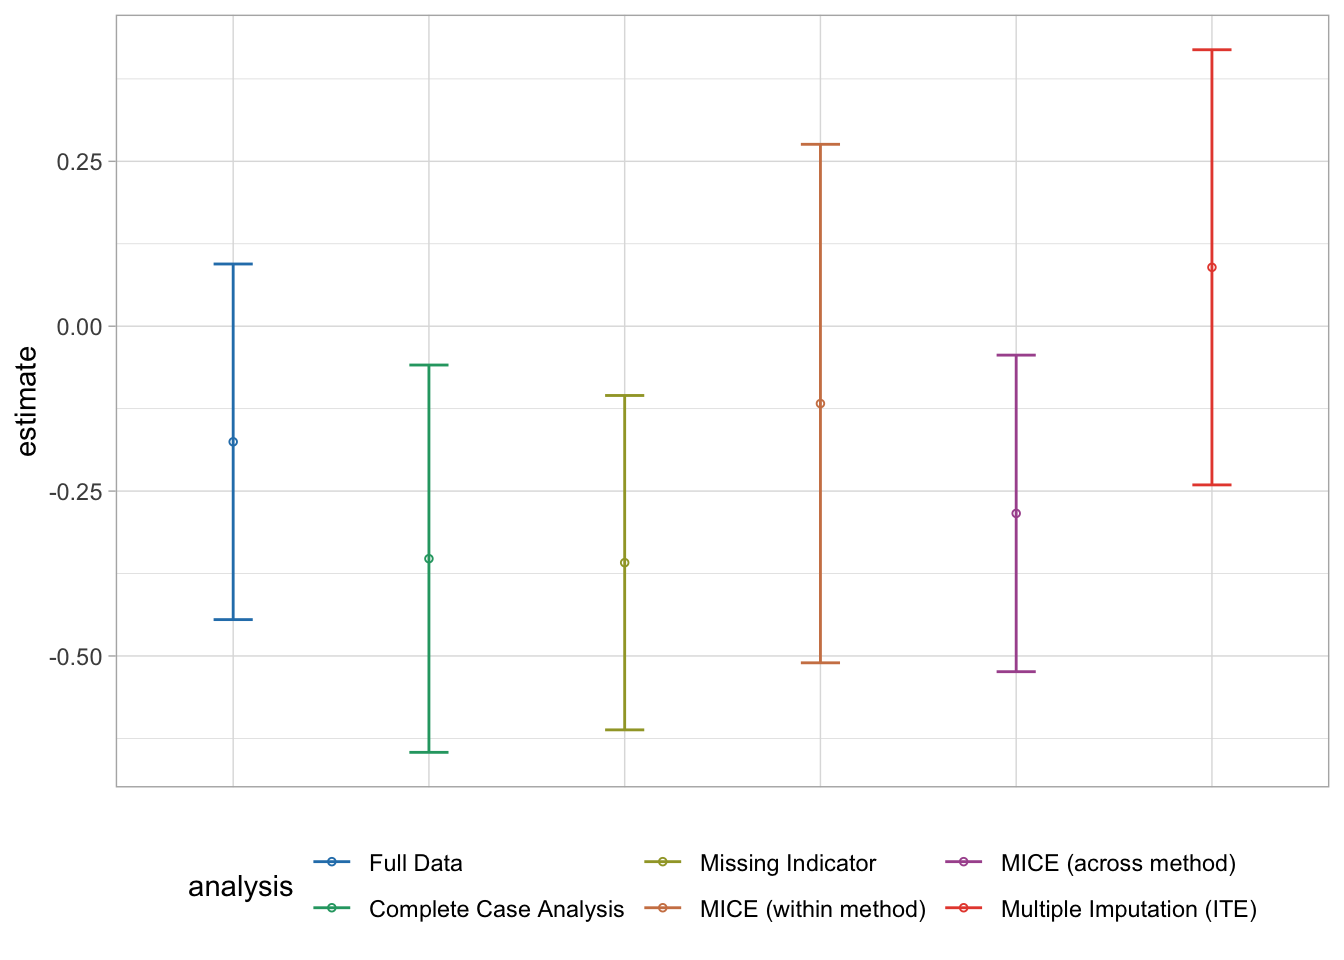
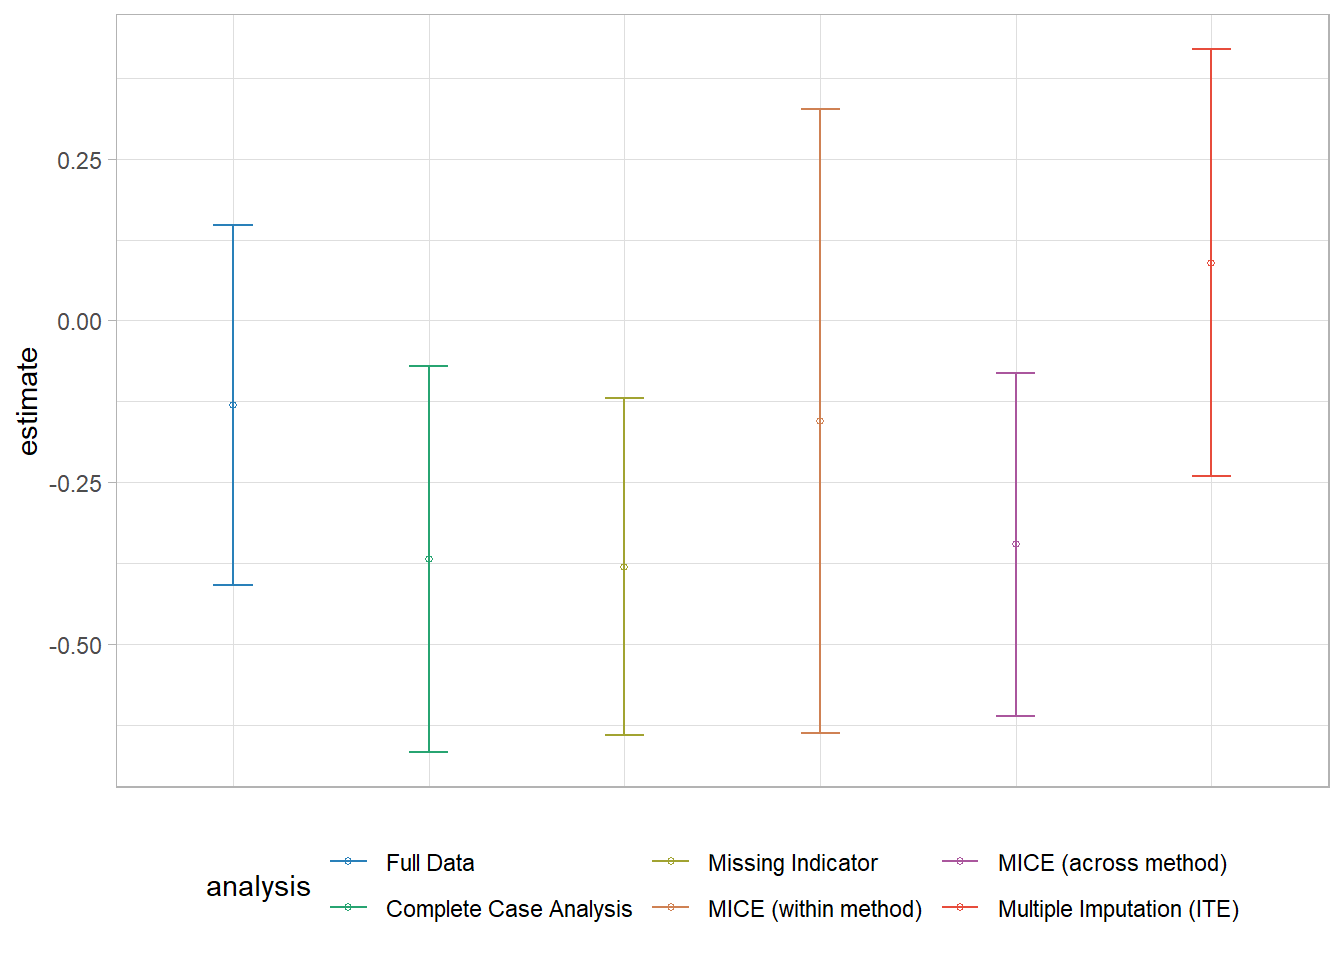
Add version info

diff --git a/docs/chapter_04.html b/docs/chapter_04.html
@@ -182,7 +182,12 @@ code span.wa { color: #60a0b0; font-weight: bold; font-style: italic; } /* Warni
 </li>
         <li class="sidebar-item">
   <div class="sidebar-item-container"> 
-  <a href="./chapter_12.html" class="sidebar-item-text sidebar-link"><span class="chapter-number">4</span>&nbsp; <span class="chapter-title">Dealing with irregular and informative visits</span></a>
+  <a href="./chapter_10.html" class="sidebar-item-text sidebar-link"><span class="chapter-number">4</span>&nbsp; <span class="chapter-title">Systematic review and meta-analysis of Real-World Evidence</span></a>
+  </div>
+</li>
+        <li class="sidebar-item">
+  <div class="sidebar-item-container"> 
+  <a href="./chapter_12.html" class="sidebar-item-text sidebar-link"><span class="chapter-number">5</span>&nbsp; <span class="chapter-title">Dealing with irregular and informative visits</span></a>
   </div>
 </li>
         <li class="sidebar-item">
@@ -213,6 +218,7 @@ code span.wa { color: #60a0b0; font-weight: bold; font-style: italic; } /* Warni
   </ul></li>
   <li><a href="#convergence-checking" id="toc-convergence-checking" class="nav-link" data-scroll-target="#convergence-checking"><span class="toc-section-number">1.3</span>  Convergence checking</a></li>
   <li><a href="#results" id="toc-results" class="nav-link" data-scroll-target="#results"><span class="toc-section-number">1.4</span>  Results</a></li>
+  <li><a href="#version-info" id="toc-version-info" class="nav-link" data-scroll-target="#version-info">Version info</a></li>
   </ul>
 </nav>
     </div>
@@ -492,12 +498,12 @@ code span.wa { color: #60a0b0; font-weight: bold; font-style: italic; } /* Warni
 <span id="cb5-2"><a href="#cb5-2" aria-hidden="true" tabindex="-1"></a><span class="fu">coef</span>(match_mod)[<span class="st">"DMF"</span>]</span></code><button title="Copy to Clipboard" class="code-copy-button"><i class="bi"></i></button></pre></div>
 <div class="cell-output cell-output-stdout">
 <pre><code>       DMF 
--0.3524863 </code></pre>
+-0.3685717 </code></pre>
 </div>
 <div class="sourceCode cell-code" id="cb7"><pre class="sourceCode r code-with-copy"><code class="sourceCode r"><span id="cb7-1"><a href="#cb7-1" aria-hidden="true" tabindex="-1"></a><span class="co"># Standard error</span></span>
 <span id="cb7-2"><a href="#cb7-2" aria-hidden="true" tabindex="-1"></a><span class="fu">sqrt</span>(tx_var[<span class="st">"DMF"</span>, <span class="st">"DMF"</span>])</span></code><button title="Copy to Clipboard" class="code-copy-button"><i class="bi"></i></button></pre></div>
 <div class="cell-output cell-output-stdout">
-<pre><code>[1] 0.1498211</code></pre>
+<pre><code>[1] 0.1521243</code></pre>
 </div>
 </div>
 <div class="cell" data-hash="chapter_04_cache/html/unnamed-chunk-10_e78fb08d915892a04a82a8a1f2d4aa48">
@@ -561,12 +567,12 @@ code span.wa { color: #60a0b0; font-weight: bold; font-style: italic; } /* Warni
 <div class="sourceCode cell-code" id="cb12"><pre class="sourceCode r code-with-copy"><code class="sourceCode r"><span id="cb12-1"><a href="#cb12-1" aria-hidden="true" tabindex="-1"></a><span class="co"># Treatment effect estimate (log rate ratio)</span></span>
 <span id="cb12-2"><a href="#cb12-2" aria-hidden="true" tabindex="-1"></a>(match_mod <span class="sc">%&gt;%</span> <span class="fu">filter</span>(term <span class="sc">==</span> <span class="st">"DMF"</span>))<span class="sc">$</span>estimate</span></code><button title="Copy to Clipboard" class="code-copy-button"><i class="bi"></i></button></pre></div>
 <div class="cell-output cell-output-stdout">
-<pre><code>[1] -0.1172783</code></pre>
+<pre><code>[1] -0.1554094</code></pre>
 </div>
 <div class="sourceCode cell-code" id="cb14"><pre class="sourceCode r code-with-copy"><code class="sourceCode r"><span id="cb14-1"><a href="#cb14-1" aria-hidden="true" tabindex="-1"></a><span class="co"># Standard error</span></span>
 <span id="cb14-2"><a href="#cb14-2" aria-hidden="true" tabindex="-1"></a>(match_mod <span class="sc">%&gt;%</span> <span class="fu">filter</span>(term <span class="sc">==</span> <span class="st">"DMF"</span>))<span class="sc">$</span>std.error</span></code><button title="Copy to Clipboard" class="code-copy-button"><i class="bi"></i></button></pre></div>
 <div class="cell-output cell-output-stdout">
-<pre><code>[1] 0.1895277</code></pre>
+<pre><code>[1] 0.2202132</code></pre>
 </div>
 </div>
 <div class="cell" data-hash="chapter_04_cache/html/unnamed-chunk-16_d00fdb61fc3434921d6a43596612dc13">
@@ -599,12 +605,12 @@ code span.wa { color: #60a0b0; font-weight: bold; font-style: italic; } /* Warni
 <div class="sourceCode cell-code" id="cb18"><pre class="sourceCode r code-with-copy"><code class="sourceCode r"><span id="cb18-1"><a href="#cb18-1" aria-hidden="true" tabindex="-1"></a><span class="co"># Treatment effect estimate (log rate ratio)</span></span>
 <span id="cb18-2"><a href="#cb18-2" aria-hidden="true" tabindex="-1"></a>(match_mod <span class="sc">%&gt;%</span> <span class="fu">filter</span>(term <span class="sc">==</span> <span class="st">"DMF"</span>))<span class="sc">$</span>estimate</span></code><button title="Copy to Clipboard" class="code-copy-button"><i class="bi"></i></button></pre></div>
 <div class="cell-output cell-output-stdout">
-<pre><code>[1] -0.2838299</code></pre>
+<pre><code>[1] -0.3461563</code></pre>
 </div>
 <div class="sourceCode cell-code" id="cb20"><pre class="sourceCode r code-with-copy"><code class="sourceCode r"><span id="cb20-1"><a href="#cb20-1" aria-hidden="true" tabindex="-1"></a><span class="co"># Standard error</span></span>
 <span id="cb20-2"><a href="#cb20-2" aria-hidden="true" tabindex="-1"></a>(match_mod <span class="sc">%&gt;%</span> <span class="fu">filter</span>(term <span class="sc">==</span> <span class="st">"DMF"</span>))<span class="sc">$</span>std.error</span></code><button title="Copy to Clipboard" class="code-copy-button"><i class="bi"></i></button></pre></div>
 <div class="cell-output cell-output-stdout">
-<pre><code>[1] 0.1221876</code></pre>
+<pre><code>[1] 0.1351187</code></pre>
 </div>
 </div>
 <div class="cell" data-hash="chapter_04_cache/html/unnamed-chunk-20_38cd82b345171c109d24fa51ecd5f701">
@@ -635,6 +641,64 @@ code span.wa { color: #60a0b0; font-weight: bold; font-style: italic; } /* Warni
 <div class="cell" data-hash="chapter_04_cache/html/unnamed-chunk-22_f28658f018d3147c92e8d38d6a48da11">
 <div class="cell-output-display">
 <p><img src="chapter_04_files/figure-html/unnamed-chunk-22-1.png" class="img-fluid" width="672"></p>
+</div>
+</div>
+</section>
+<section id="version-info" class="level2 unnumbered">
+<h2 class="unnumbered anchored" data-anchor-id="version-info">Version info</h2>
+<p>This chapter was developed using the following version of R and its packages:</p>
+<div class="cell" data-hash="chapter_04_cache/html/unnamed-chunk-23_2588b5bf42c206c4214590de9e5f8e36">
+<div class="cell-output cell-output-stdout">
+<pre><code>R version 4.2.2 (2022-10-31 ucrt)
+Platform: x86_64-w64-mingw32/x64 (64-bit)
+Running under: Windows 10 x64 (build 19044)
+
+Matrix products: default
+
+locale:
+[1] LC_COLLATE=Dutch_Netherlands.utf8  LC_CTYPE=Dutch_Netherlands.utf8   
+[3] LC_MONETARY=Dutch_Netherlands.utf8 LC_NUMERIC=C                      
+[5] LC_TIME=Dutch_Netherlands.utf8    
+
+attached base packages:
+[1] grid      stats     graphics  grDevices utils     datasets  methods  
+[8] base     
+
+other attached packages:
+ [1] ggmice_0.0.1      table1_1.4.3      kableExtra_1.3.4  ggplot2_3.4.2    
+ [5] missForest_1.5    sandwich_3.0-2    PSweight_1.1.8    MatchThem_1.0.1  
+ [9] mice_3.15.0       cobalt_4.5.0      WeightIt_0.14.0   MatchIt_4.5.3    
+[13] optmatch_0.10.6   truncnorm_1.0-9   MASS_7.3-58.3     survey_4.1-1     
+[17] survival_3.5-5    Matrix_1.5-4      data.table_1.14.8 tidyr_1.3.0      
+[21] dplyr_1.1.1      
+
+loaded via a namespace (and not attached):
+ [1] nlme_3.1-162         webshot_0.5.4        RColorBrewer_1.1-3  
+ [4] httr_1.4.5           numDeriv_2016.8-1.1  tools_4.2.2         
+ [7] backports_1.4.1      doRNG_1.8.6          utf8_1.2.3          
+[10] R6_2.5.1             DBI_1.1.3            colorspace_2.1-0    
+[13] nnet_7.3-18          withr_2.5.0          gbm_2.1.8.1         
+[16] tidyselect_1.2.0     compiler_4.2.2       cli_3.6.1           
+[19] rvest_1.0.3          see_0.7.5            xml2_1.3.3          
+[22] labeling_0.4.2       scales_1.2.1         nnls_1.4            
+[25] randomForest_4.7-1.1 systemfonts_1.0.4    stringr_1.5.0       
+[28] digest_0.6.31        minqa_1.2.5          rmarkdown_2.21      
+[31] svglite_2.1.1        pkgconfig_2.0.3      htmltools_0.5.5     
+[34] lme4_1.1-32          fastmap_1.1.1        itertools_0.1-3     
+[37] htmlwidgets_1.6.2    rlang_1.1.0          rstudioapi_0.14     
+[40] generics_0.1.3       farver_2.1.1         zoo_1.8-12          
+[43] jsonlite_1.8.4       magrittr_2.0.3       Formula_1.2-5       
+[46] Rcpp_1.0.10          munsell_0.5.0        fansi_1.0.4         
+[49] lifecycle_1.0.3      chk_0.8.1            stringi_1.7.12      
+[52] yaml_2.3.7           parallel_4.2.2       crayon_1.5.2        
+[55] lattice_0.21-8       splines_4.2.2        knitr_1.42          
+[58] pillar_1.9.0         boot_1.3-28.1        rngtools_1.5.2      
+[61] codetools_0.2-19     glue_1.6.2           evaluate_0.20       
+[64] mitools_2.4          vctrs_0.6.1          nloptr_2.0.3        
+[67] foreach_1.5.2        gtable_0.3.3         purrr_1.0.1         
+[70] xfun_0.38            SuperLearner_2.0-28  broom_1.0.4         
+[73] viridisLite_0.4.1    tibble_3.2.1         iterators_1.0.14    
+[76] gam_1.22-2           rlemon_0.2.1        </code></pre>
 </div>
 </div>
 

diff --git a/docs/index.html b/docs/index.html
@@ -138,11 +138,9 @@ ul.task-list li input[type="checkbox"] {
     <h2 id="toc-title">Table of contents</h2>
    
   <ul>
-  <li><a href="#preface" id="toc-preface" class="nav-link active" data-scroll-target="#preface">Preface</a>
-  <ul class="collapse">
+  <li><a href="#about-this-book" id="toc-about-this-book" class="nav-link active" data-scroll-target="#about-this-book">About this book</a></li>
   <li><a href="#motivation" id="toc-motivation" class="nav-link" data-scroll-target="#motivation">Motivation</a></li>
   <li><a href="#contents" id="toc-contents" class="nav-link" data-scroll-target="#contents">Contents</a></li>
-  </ul></li>
   </ul>
 </nav>
     </div>
@@ -185,10 +183,11 @@ ul.task-list li input[type="checkbox"] {
 
 </header>
 
-<section id="preface" class="level1 unnumbered">
-<h1 class="unnumbered">Preface</h1>
+<section id="about-this-book" class="level2 unnumbered">
+<h2 class="unnumbered anchored" data-anchor-id="about-this-book">About this book</h2>
 <p>This book provides practical guidance for estimating the effectiveness of treatments in real-world populations. It explains how real-world data can directly be used or combined with other data sources to derive overall and individualized estimates of treatment effect. The book explains statistical methods for implementing bias adjustments, conducting evidence synthesis and individualizing treatment effect, whilst also providing illustrative examples and supporting software. The chapters and contents of the book are written by leading experts, with a track record in the generation and/or evaluation of real-world evidence.</p>
 <p>This book is intended as a pivotal textbook for statisticians, epidemiologists, methodologists, regulators and/or regulatory scientists considering, undertaking or appraising the real-world evidence of treatment effectiveness. It covers key concepts and stages to derive and evaluate treatment effect estimates for entire populations and specific individuals. The book offers a conceptual framework towards estimating treatment effects at both the population and individualized level, where modelling methods may include traditional regression-based and machine learning methods.</p>
+</section>
 <section id="motivation" class="level2 unnumbered">
 <h2 class="unnumbered anchored" data-anchor-id="motivation">Motivation</h2>
 <p>Although randomized clinical trials traditionally form the cornerstone of comparative effectiveness research, there is a growing demand to consider evidence from “real-world data” (RWD) in clinical decision-making. These data are often available from observational cohort studies, administrative databases, and patient registries, and may offer additional insights into the comparative effectiveness and safety of treatments. Yet, the analysis of RWD and the evaluation of real-world evidence face many operational and methodological challenges.</p>
@@ -208,7 +207,6 @@ ul.task-list li input[type="checkbox"] {
 </ol>
 
 
-</section>
 </section>
 
 </main> <!-- /main -->

diff --git a/docs/chapter_10.html b/docs/chapter_10.html
@@ -654,11 +654,14 @@ div.csl-indent {
 </div>
 </div>
 <p>Below, we conduct a random effects network meta-analysis where we consider standard care (<code>treat = "STD"</code>) as the control treatment.</p>
-<div class="cell" data-hash="chapter_10_cache/html/unnamed-chunk-10_efdde6b6907aad413738c9f54fa7d22b">
+<div class="cell" data-hash="chapter_10_cache/html/unnamed-chunk-10_60529bb3e05ff8a1b32fd40cd27417ff">
 <div class="sourceCode cell-code" id="cb3"><pre class="sourceCode r code-with-copy"><code class="sourceCode r"><span id="cb3-1"><a href="#cb3-1" aria-hidden="true" tabindex="-1"></a>NMA.covid <span class="ot">&lt;-</span> <span class="fu">netmeta</span>(<span class="at">TE =</span> TE, <span class="at">seTE =</span> seTE, <span class="at">treat1 =</span> treat1, <span class="at">treat2 =</span> treat2,</span>
 <span id="cb3-2"><a href="#cb3-2" aria-hidden="true" tabindex="-1"></a>                     <span class="at">studlab =</span> studlab, <span class="at">data =</span> covid, <span class="at">sm =</span> <span class="st">"OR"</span>, <span class="at">ref =</span> <span class="st">"STD"</span>,</span>
 <span id="cb3-3"><a href="#cb3-3" aria-hidden="true" tabindex="-1"></a>                     <span class="at">comb.random =</span> <span class="cn">TRUE</span>)</span>
 <span id="cb3-4"><a href="#cb3-4" aria-hidden="true" tabindex="-1"></a><span class="fu">forest</span>(NMA.covid, <span class="at">leftcols =</span> <span class="st">"studlab"</span>, <span class="at">rightcols =</span> <span class="st">"effect.ci"</span>)</span></code><button title="Copy to Clipboard" class="code-copy-button"><i class="bi"></i></button></pre></div>
+<div class="cell-output-display">
+<p><img src="chapter_10_files/figure-html/unnamed-chunk-10-1.png" class="img-fluid" width="672"></p>
+</div>
 </div>
 <p>The figure below shows the percentage of direct and indirect evidence used for each estimated comparison.</p>
 <div class="cell" data-hash="chapter_10_cache/html/unnamed-chunk-11_a1cf5307a58c96a46264957c13185ddd">
